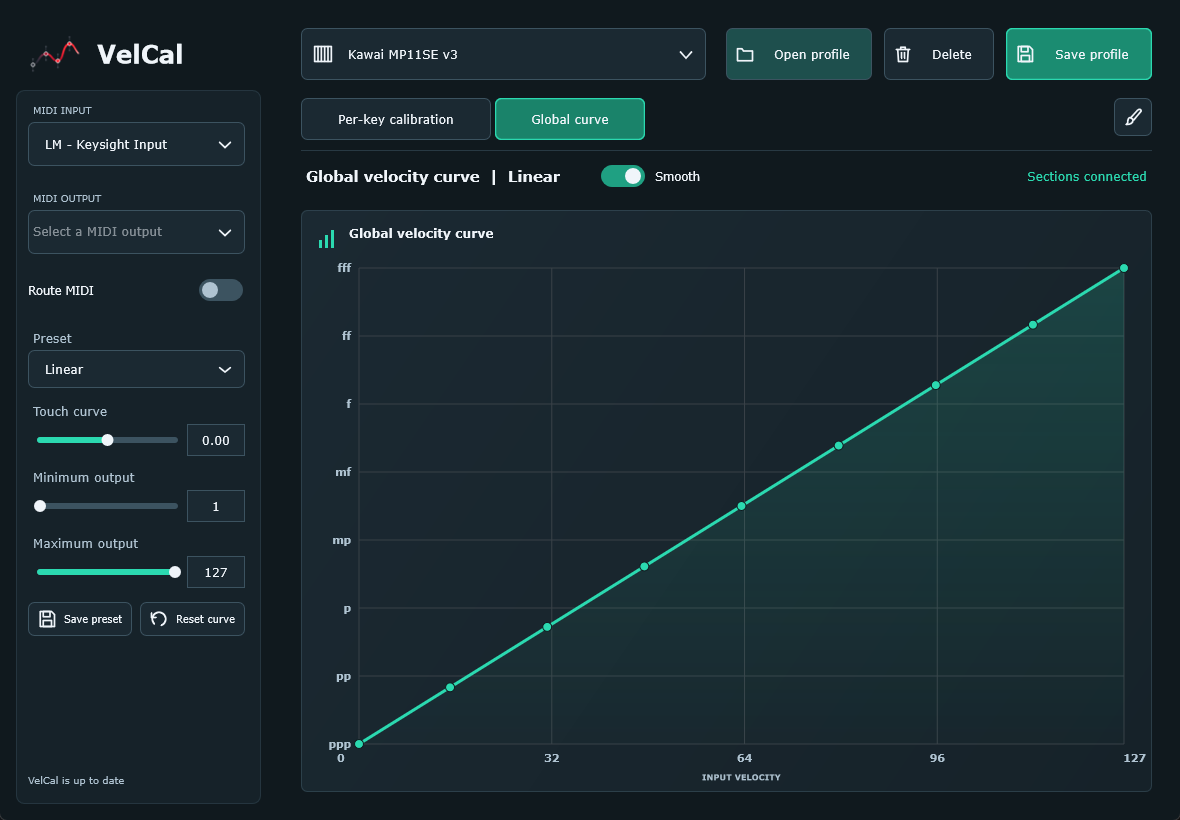
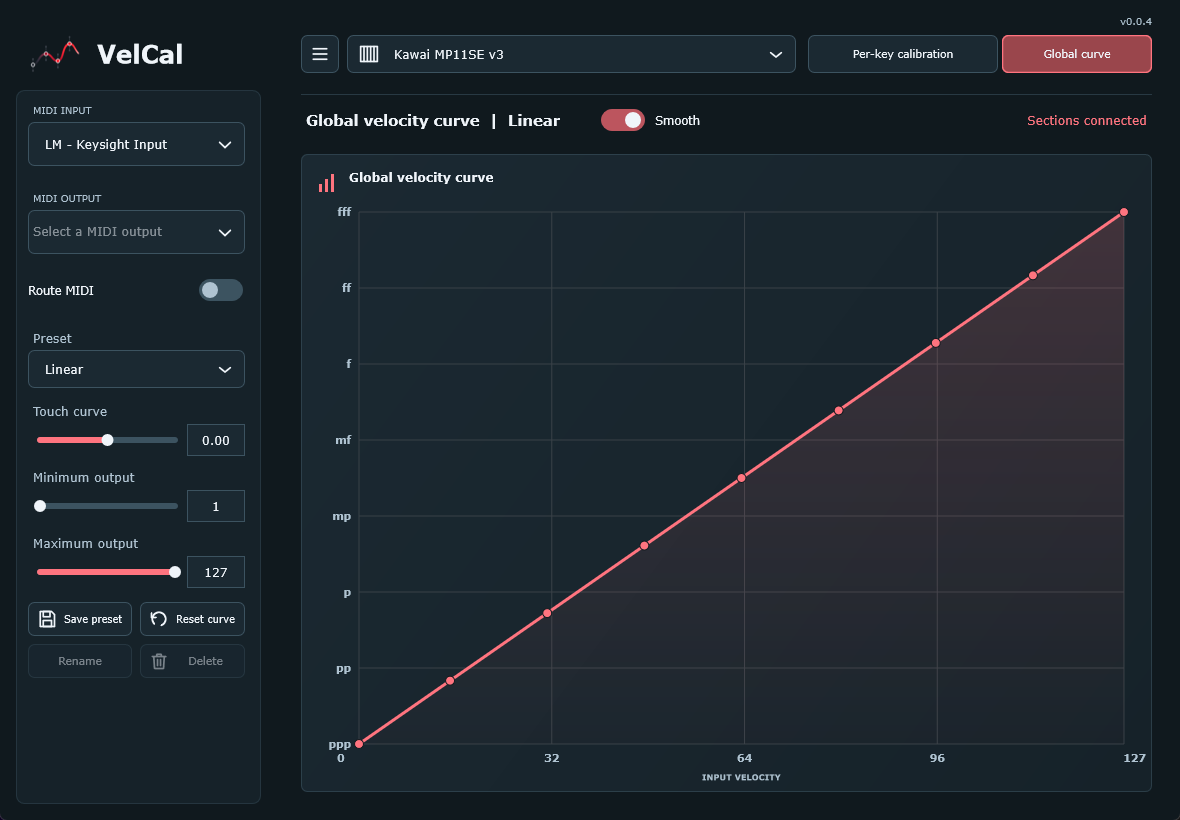
Refresh README screenshots for 0.0.4

diff --git a/README.md b/README.md
@@ -15,7 +15,7 @@ Installers include standalone and VST3 on Windows, Linux, and
 macOS, plus an AU MIDI effect for Logic on macOS. Only Windows has real keyboard
 and DAW validation; Linux/macOS are experimental. See
 [installation and DAW routing](docs/INSTALLING.md) and
-[0.0.3 release notes](docs/releases/0.0.3.md), including unsigned-installer warnings
+[0.0.4 release notes](docs/releases/0.0.4.md), including unsigned-installer warnings
 and build-verification status.
 
 ## What You Can Do
@@ -35,13 +35,13 @@ and build-verification status.
 
 ## Screenshots
 
-**Per-key calibration**: keyboard coverage, section statistics, and the selected
-key's velocity curve.
+**Per-key calibration**: compact profile and tab controls, keyboard coverage,
+section statistics, and the selected key's velocity curve.
 
 ![VelCal per-key calibration with keyboard status colours, calibration statistics and an editable velocity curve](docs/images/per-key-calibration.png)
 
-**Global curve**: shape the whole keyboard's response with presets, touch curve,
-and output limits.
+**Global curve**: shape the whole keyboard's response with shared presets, touch
+curve, and output limits.
 
 ![VelCal global velocity curve with preset selection, touch curve and minimum and maximum output controls](docs/images/global-velocity-curve.png)
 
@@ -188,8 +188,8 @@ The choice takes effect immediately, is remembered across restarts, and is share
 by standalone and plugin editors. It does not alter your calibration profiles.
 
 The small version label above **Global curve** shows the installed version
-(for example, `v0.0.3`). When a newer release is found, it also shows
-`v0.0.4 is available`. Check details are in its tooltip; checking or an unavailable
+(for example, `v0.0.4`). When a newer release is found, it shows
+`v0.0.4 - v0.0.5 is available`. Check details are in its tooltip; checking or an unavailable
 check leaves the installed version visible. It does not download or install updates automatically;
 use the [release downloads](https://github.com/SH4DOWSIX/VelCal/releases/latest)
 to update. Your saved profiles/preferences are retained during an upgrade.
